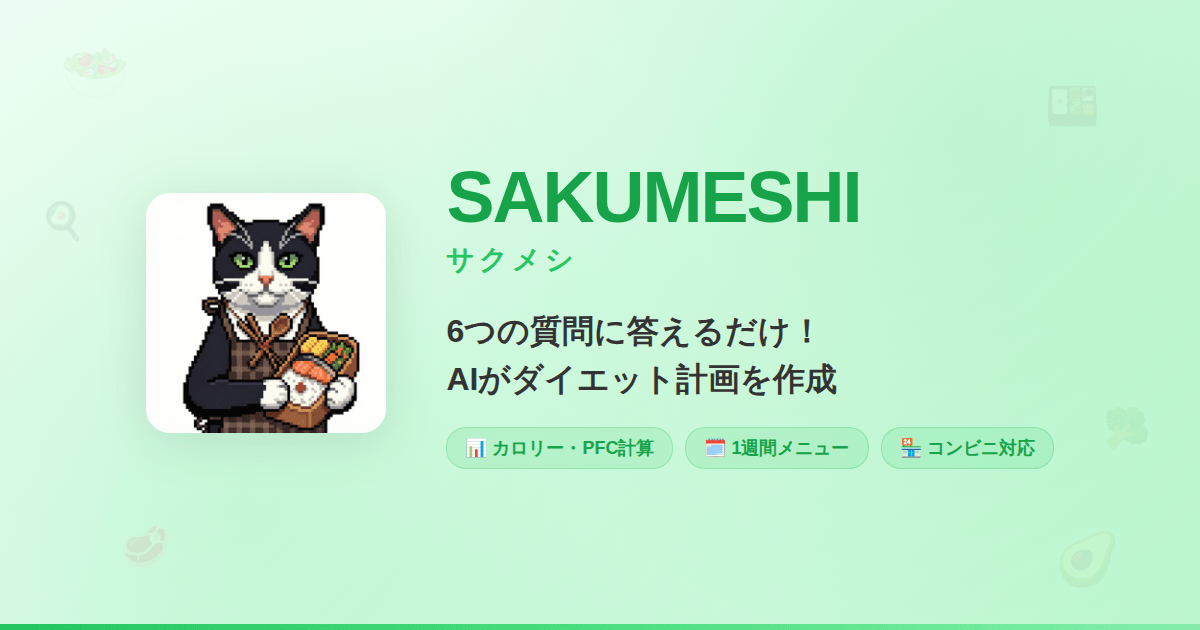
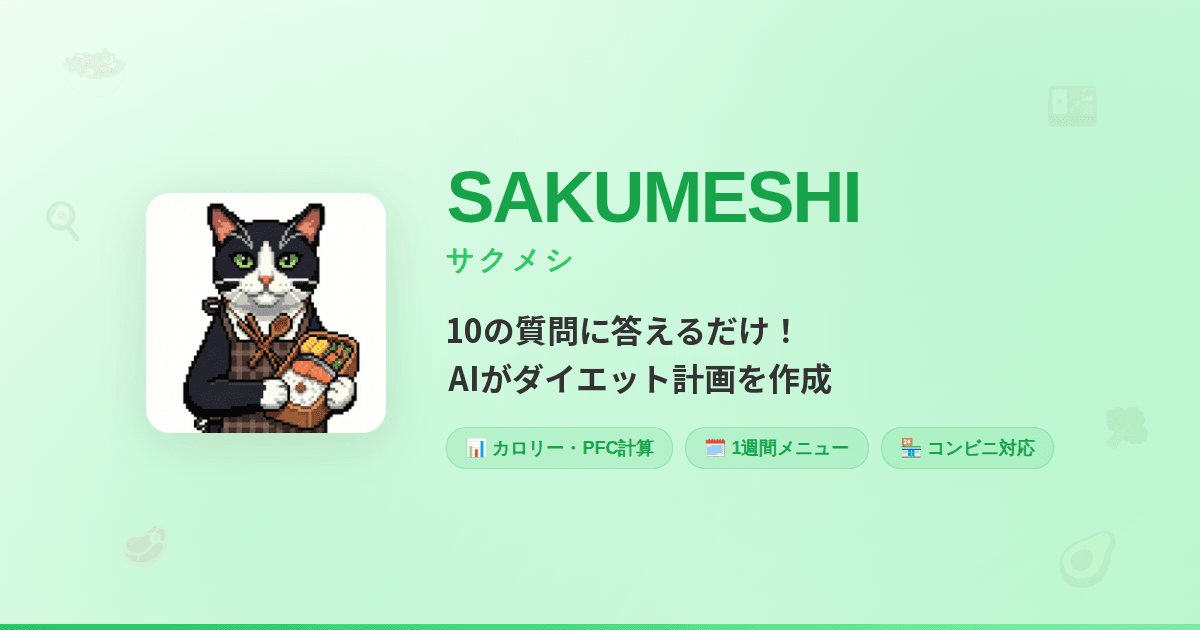
fix: OGP画像の「6つの質問」を実際の質問数「10の質問」に修正
- キャッチコピー2行を Noto Sans JP Bold で描き直し（162KB → 126KB）
- SNS のキャッシュを避けるため画像 URL に ?v=2 を付与

Changed region(s): [[0.37, 0.4825, 0.7092, 0.6333], [0.6167, 0.6937, 0.6475, 0.7238], [0.0, 0.9952, 0.0308, 1.0]]

diff --git a/src/app/layout.tsx b/src/app/layout.tsx
@@ -29,7 +29,7 @@ export const metadata: Metadata = {
     url: "https://sakumeshi.app",
     images: [
       {
-        url: "/og_sakumeshi.png",
+        url: "/og_sakumeshi.png?v=2",
         width: 1200,
         height: 630,
       },
@@ -40,7 +40,7 @@ export const metadata: Metadata = {
     title: "サクメシ - AIでサクッとダイエット計画を作成",
     description:
       "かんたんな質問に答えるだけ！AIがあなた専用のカロリー計算と1週間の食事メニューを作成します。",
-    images: ["/og_sakumeshi.png"],
+    images: ["/og_sakumeshi.png?v=2"],
   },
   verification: {
     google: "ZjWPPXKFHLaA28ucYVXLYd-MO0aZCkUEjSQ96J8qPJE",

diff --git a/src/lib/metadata.ts b/src/lib/metadata.ts
@@ -17,7 +17,7 @@ import { getColumn } from "@/lib/columns";
 export const SITE_NAME = "サクメシ";
 
 /** Shared share image. 1200x630 is the size X and Facebook crop against. */
-const OG_IMAGE = { url: "/og_sakumeshi.png", width: 1200, height: 630 } as const;
+const OG_IMAGE = { url: "/og_sakumeshi.png?v=2", width: 1200, height: 630 } as const;
 
 interface PageMetadataInput {
   /** Root-relative path, resolved against `metadataBase` ("/column" etc.) */
